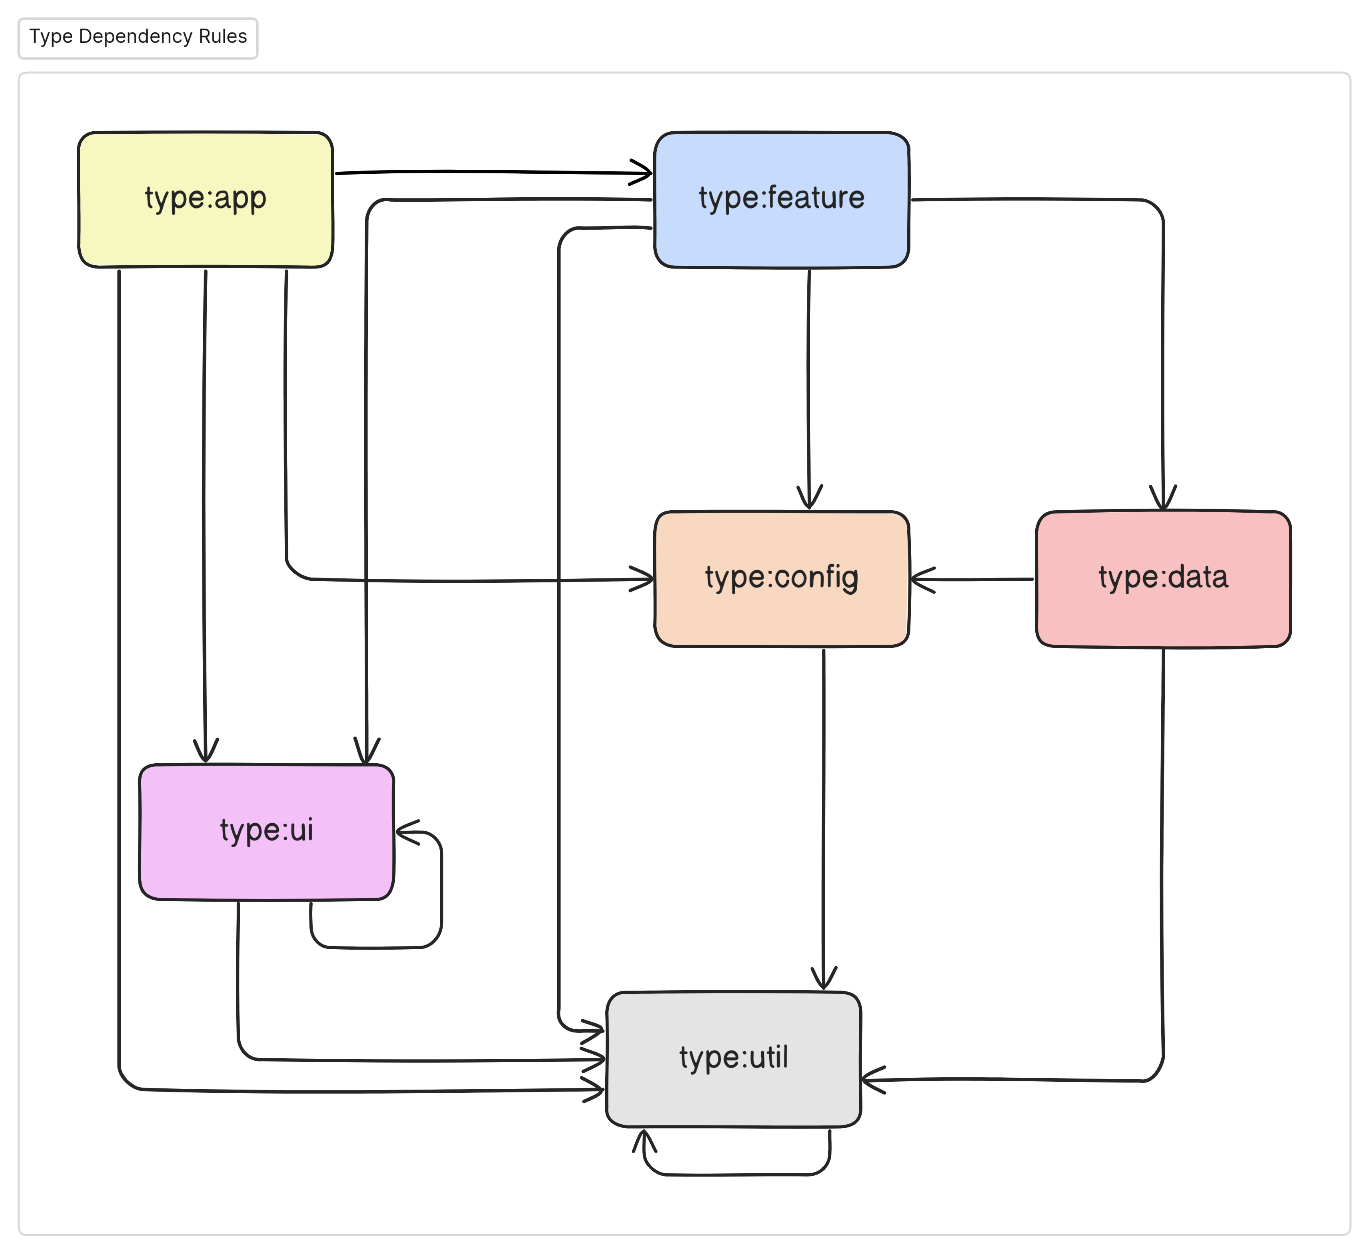
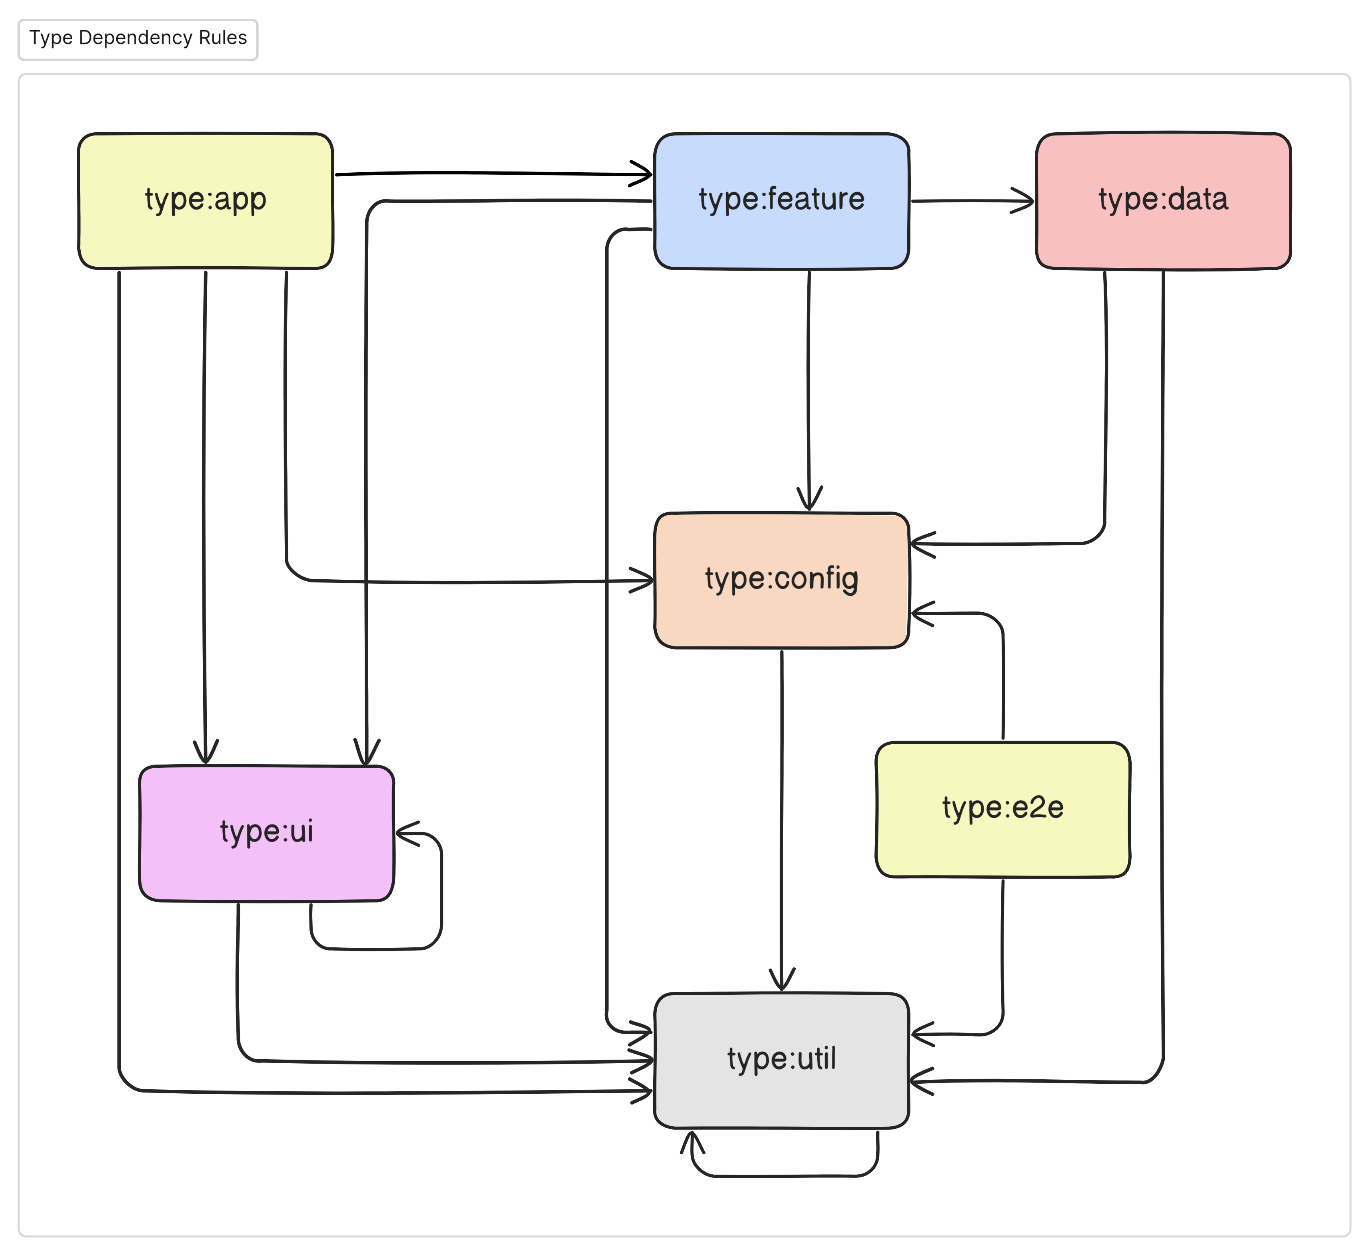
add dependency rule

diff --git a/.eslintrc.js b/.eslintrc.js
@@ -25,9 +25,78 @@ module.exports = init({
           'error',
           {
             enforceBuildableLibDependency: true,
+            banTransitiveDependencies: true,
             allow: [],
             depConstraints: [
-              { sourceTag: '*', onlyDependOnLibsWithTags: ['*'] },
+              {
+                sourceTag: 'type:util',
+                onlyDependOnLibsWithTags: ['type:util'],
+              },
+              {
+                sourceTag: 'type:ui',
+                onlyDependOnLibsWithTags: ['type:ui', 'type:util'],
+              },
+              {
+                sourceTag: 'type:config',
+                onlyDependOnLibsWithTags: ['type:util'],
+              },
+              {
+                sourceTag: 'type:data',
+                onlyDependOnLibsWithTags: ['type:util', 'type:config'],
+              },
+              {
+                sourceTag: 'type:app',
+                onlyDependOnLibsWithTags: [
+                  'type:util',
+                  'type:config',
+                  'type:feature',
+                  'type:ui',
+                ],
+              },
+              {
+                sourceTag: 'type:e2e',
+                onlyDependOnLibsWithTags: ['type:util', 'type:config'],
+              },
+              {
+                sourceTag: 'type:feature',
+                onlyDependOnLibsWithTags: [
+                  'type:util',
+                  'type:ui',
+                  'type:config',
+                  'type:data',
+                ],
+              },
+              {
+                sourceTag: 'scope:task',
+                onlyDependOnLibsWithTags: ['scope:user', 'scope:task'],
+              },
+              {
+                sourceTag: 'scope:focus',
+                onlyDependOnLibsWithTags: [
+                  'scope:user',
+                  'scope:task',
+                  'scope:focus',
+                ],
+              },
+              {
+                sourceTag: 'scope:notification',
+                onlyDependOnLibsWithTags: [
+                  'scope:user',
+                  'scope:task',
+                  'scope:focus',
+                  'scope:analytic',
+                  'scope:notification',
+                ],
+              },
+              {
+                sourceTag: 'scope:analytic',
+                onlyDependOnLibsWithTags: [
+                  'scope:user',
+                  'scope:task',
+                  'scope:focus',
+                  'scope:analytic',
+                ],
+              },
             ],
           },
         ],
